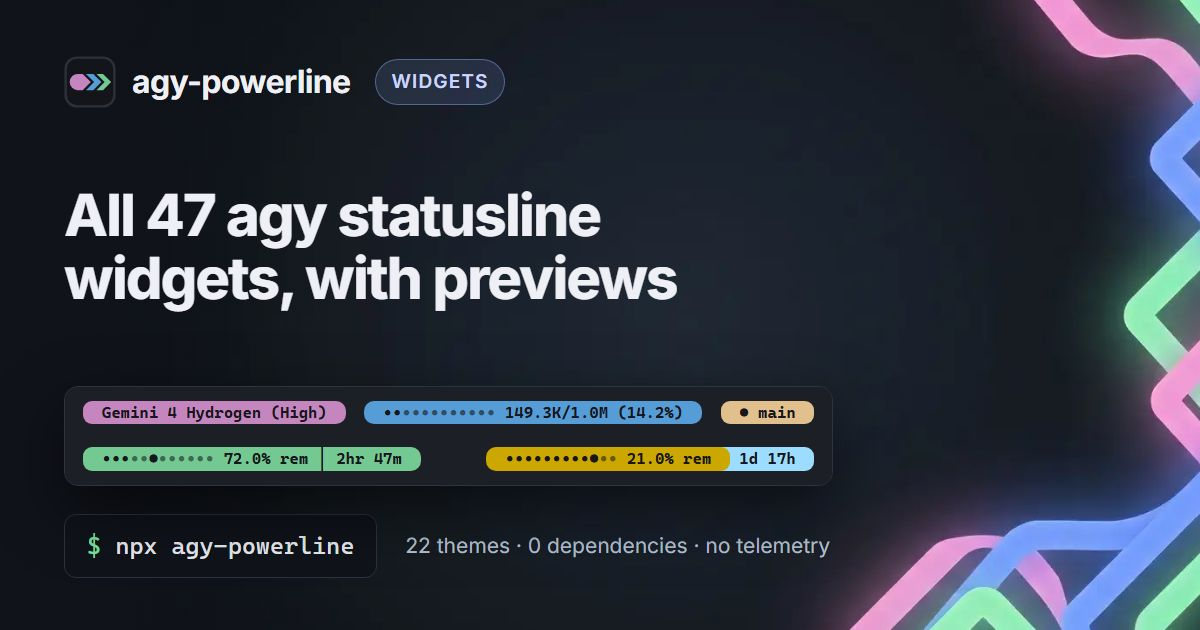
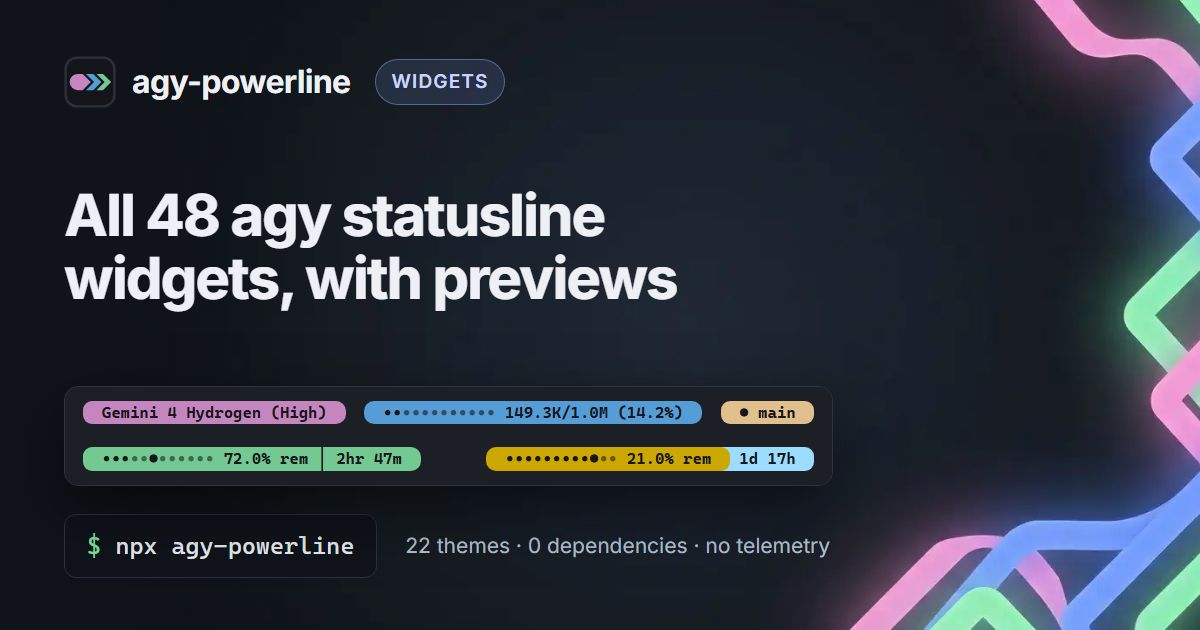
feat(usage): add tokensMonth 30-day token usage widget (#268)
## Summary

Add the opt-in `tokensMonth` (`Tokens 30 Days`) widget showing total
input + output tokens used over the last 30 days across all Antigravity
conversations, reusing the existing `.usage-cache.json` daily buckets.

Fixes #252

## Changes

- **`src/lib/usage.js`**:
- Added `tokensMonth: 30` to `USAGE_PERIODS` and returned `month:
sum(cache, recentDays(now, 30, timeZone))` in `resolveUsage()`.
- **Widget registration, localization & layouts**:
- Registered `tokensMonth` in `src/lib/catalog.js` (`summary` 5 words),
`src/lib/config.js` (`VALID_WIDGET_IDS`), `src/lib/fit.js`
(`DROP_ORDER`), `src/lib/widget-style.js` (`WIDGET_TAGS` with `🗓` /
`"30d"`), and `src/lib/i18n.js` (`tag_30d` across `en`, `fr`, `es`,
`ja`, `zh-CN`, `ko`, `de`).
- Added `tokensMonth` handling alongside `tokensToday` and `tokensWeek`
in `src/lib/layouts/pills.js` and `src/lib/layouts/lines.js` (with
`split: true`, `budget`, `warn`/`crit`/`blink`).
- Exposed `split`, `budget`, `warn`, `crit`, and `blink` options in
`src/lib/widget-options.js` for `tokensToday`, `tokensWeek`, and
`tokensMonth`.
- Updated `src/lib/session.js`, `src/cli/doctor.js`, `plugin.json` (`48
widgets`), `scripts/site/build.js` (`NO_PREVIEW`),
`scripts/site/config-schema.js`, `assets/site/og/widgets.jpg`, and
`assets/site/og/manifest.json` (`npm run site:images`).
- **Docs & tests**:
- Updated `docs/configuration.md`, `docs/install.md`, `llms.txt`,
`README.md`, `README.de.md`, `README.es.md`, `README.fr.md`,
[…]

Changed region(s): [[0.1542, 0.3016, 0.5242, 0.3921]]

diff --git a/tests/shared/usage.test.js b/tests/shared/usage.test.js
@@ -8,7 +8,8 @@ const os = require("os");
 const path = require("path");
 const { record, stripAnsi } = require("../helpers");
 const { renderStatusline, defaultConfig, sampleData } = require("../../src/lib/shared");
-const { getConfigDir, setConfigDir } = require("../../src/lib/config");
+const { LAYOUT_ORDER, getConfigDir, setConfigDir } = require("../../src/lib/config");
+const { editFields } = require("../../src/lib/widget-options");
 const { setLogDir, readLog, getLogPath } = require("../../src/lib/log");
 const {
   USAGE_CACHE_NAME,
@@ -265,6 +266,34 @@ async function run() {
       wrong.every((text) => text.includes("Today: 2.5K") && !text.includes("%")),
       wrong.join(" / ")
     );
+
+    // 30-day window includes old.db (20d) while still skipping veryold.db (40d).
+    makeConversationDb(path.join(dir, "veryold.db"), {
+      gens: [generator({ input: 500000, output: 0, id: "vo" }, NOW - 40 * DAY)],
+      mtime: NOW - 40 * DAY,
+    });
+    const opensBeforeMonth = stats.opens;
+    const monthOut = inHome(home, () => render(config({}, [{ id: "tokensMonth" }])));
+    const monthSplit = inHome(home, () =>
+      render(config({}, [{ id: "tokensMonth", split: true, budget: 2000000 }]))
+    );
+    const monthLayouts = LAYOUT_ORDER.every((layout) =>
+      inHome(home, () => render(config({ layout }, [{ id: "tokensMonth" }]))).includes("30d: 1.1M")
+    );
+    const monthFields = new Set(editFields({ id: "tokensMonth" }).map((f) => f.key));
+    record(
+      "tokensMonth sums the last 30 days, supports split/budget across layouts, and skips >31d databases",
+      stats.opens - opensBeforeMonth === 1 &&
+        monthOut.includes("🗓 30d: 1.1M") &&
+        monthSplit.includes("30d: 1.1M↑ 1.3K↓ (54%)") &&
+        monthLayouts &&
+        ["split", "budget", "warn", "crit", "blink"].every((key) => monthFields.has(key)),
+      `${stats.opens - opensBeforeMonth} opens | ${monthOut} | ${monthSplit}`
+    );
+    // Clean up veryold.db and old.db cache entry before subsequent exact checks.
+    fs.rmSync(path.join(dir, "veryold.db"), { force: true });
+    clearUsageCache();
+    fs.rmSync(path.join(install, USAGE_CACHE_NAME), { force: true });
 
     // Locked, corrupt or foreign databases are skipped and logged, without a path.
     setLogDir(install, true);

diff --git a/src/lib/widget-options.js b/src/lib/widget-options.js
@@ -31,6 +31,7 @@ const PACED_WIDGETS = new Set([
   "argonWeekly",
 ]);
 const METER_WIDGETS = new Set([...PACED_WIDGETS, "context"]);
+const USAGE_TOTAL_WIDGETS = new Set(["tokensToday", "tokensWeek", "tokensMonth"]);
 const MAX_WIDTH_WIDGETS = new Set([
   "cwd",
   "project",
@@ -53,9 +54,10 @@ const onOff = (value) => (value ? "on" : "off");
 function editFields(widget, config = {}, options = {}) {
   const quota = QUOTA_WIDGETS.has(widget.id);
   const context = CONTEXT_WIDGETS.has(widget.id);
+  const usageTotal = USAGE_TOTAL_WIDGETS.has(widget.id);
   const thresholds = quota
     ? resolveQuotaThresholds({}, config)
-    : context
+    : context || usageTotal
       ? resolveContextThresholds({}, config)
       : null;
 
@@ -132,6 +134,27 @@ function editFields(widget, config = {}, options = {}) {
       show: (value) => onOff(value),
       help: "Input and output tokens apart (123.1K↑ 355.0K↓) instead of one total.",
     });
+  }
+  if (usageTotal) {
+    fields.push(
+      {
+        key: "split",
+        label: "Split",
+        values: [undefined, true],
+        show: (value) => onOff(value),
+        help: "Input and output tokens apart (1.0M↑ 245.3K↓) instead of one total.",
+      },
+      {
+        key: "budget",
+        label: "Budget",
+        values: [undefined, 500000, 1000000, 2000000, 5000000, 10000000],
+        show: (value) =>
+          typeof value === "number" && Number.isFinite(value) && value > 0
+            ? formatTokens(value)
+            : "off",
+        help: "Token budget: adds the % used and turns to caution and danger colors as usage approaches it.",
+      }
+    );
   }
   if (widget.id === "cost") {
     fields.push(

diff --git a/src/lib/usage.js b/src/lib/usage.js
@@ -3,10 +3,10 @@
 
 "use strict";
 
-// Tokens used today and over the last 7 days, for the tokensToday and
-// tokensWeek widgets. agy keeps each conversation in a SQLite database of its
-// own; only the usage numbers, response IDs (to drop duplicates) and
-// timestamps are read from it, never a message, a model prompt or a name.
+// Tokens used today, over the last 7 days, and over the last 30 days, for the
+// tokensToday, tokensWeek, and tokensMonth widgets. agy keeps each conversation
+// in a SQLite database of its own; only the usage numbers, response IDs (to drop
+// duplicates) and timestamps are read from it, never a message, a model prompt or a name.
 // The field numbers and the way duplicates are dropped follow ccusage's
 // Antigravity adapter (MIT, rust/adapters/antigravity/src/parser.rs).
 
@@ -23,7 +23,7 @@ const USAGE_CACHE_NAME = ".usage-cache.json";
 const READ_BUDGET_MS = 100;
 const DAY_MS = 86400000;
 // How many days back each widget looks, today included.
-const USAGE_PERIODS = { tokensToday: 1, tokensWeek: 7 };
+const USAGE_PERIODS = { tokensToday: 1, tokensWeek: 7, tokensMonth: 30 };
 // Usage metadata is a few hundred bytes; anything this big isn't.
 const MAX_BLOB_BYTES = 4 * 1024 * 1024;
 const MAX_DEPTH = 8;
@@ -502,6 +502,7 @@ function resolveUsage(config, { read = false } = {}) {
     return {
       today: sum(cache, recentDays(now, 1, timeZone)),
       week: sum(cache, recentDays(now, 7, timeZone)),
+      month: sum(cache, recentDays(now, 30, timeZone)),
     };
   } catch {
     return null;

diff --git a/src/lib/i18n.js b/src/lib/i18n.js
@@ -37,6 +37,7 @@ const MESSAGES = {
     tag_tokens: "Tokens",
     tag_clock: "Clock",
     tag_today: "Today",
+    tag_30d: "30d",
     tag_cost: "Cost",
     tag_queue: "Queue",
 
@@ -90,6 +91,7 @@ const MESSAGES = {
     tag_tokens: "Tokens",
     tag_clock: "Heure",
     tag_today: "Aujourd'hui",
+    tag_30d: "30j",
     tag_cost: "Coût",
     tag_queue: "File",
 
@@ -143,6 +145,7 @@ const MESSAGES = {
     tag_tokens: "Tokens",
     tag_clock: "Hora",
     tag_today: "Hoy",
+    tag_30d: "30d",
     tag_cost: "Coste",
     tag_queue: "Cola",
 
@@ -196,6 +199,7 @@ const MESSAGES = {
     tag_tokens: "トークン",
     tag_clock: "時刻",
     tag_today: "今日",
+    tag_30d: "30日",
     tag_cost: "コスト",
     tag_queue: "キュー",
 
@@ -250,6 +254,7 @@ const MESSAGES = {
     tag_tokens: "Token",
     tag_clock: "时间",
     tag_today: "今日",
+    tag_30d: "30天",
     tag_cost: "费用",
     tag_queue: "队列",
 
@@ -303,6 +308,7 @@ const MESSAGES = {
     tag_tokens: "토큰",
     tag_clock: "시각",
     tag_today: "오늘",
+    tag_30d: "30일",
     tag_cost: "비용",
     tag_queue: "대기",
 
@@ -356,6 +362,7 @@ const MESSAGES = {
     tag_tokens: "Tokens",
     tag_clock: "Uhrzeit",
     tag_today: "Heute",
+    tag_30d: "30T",
     tag_cost: "Kosten",
     tag_queue: "Warteschlange",
 

diff --git a/src/lib/layouts/lines.js b/src/lib/layouts/lines.js
@@ -688,13 +688,10 @@ function buildLinesSegment(id, session, palette, emojis, ascii = false, widget =
     }
 
     case "tokensToday":
-    case "tokensWeek": {
-      const usage = formatUsage(
-        session.usage?.[id === "tokensToday" ? "today" : "week"],
-        widget,
-        ascii,
-        session.lang
-      );
+    case "tokensWeek":
+    case "tokensMonth": {
+      const period = { tokensToday: "today", tokensWeek: "week", tokensMonth: "month" }[id];
+      const usage = formatUsage(session.usage?.[period], widget, ascii, session.lang);
       if (!usage) {
         return null;
       }

diff --git a/src/lib/layouts/pills.js b/src/lib/layouts/pills.js
@@ -604,13 +604,10 @@ function buildSegment(id, session, colors, emojis, ascii = false, widget = {}, c
     }
 
     case "tokensToday":
-    case "tokensWeek": {
-      const usage = formatUsage(
-        session.usage?.[id === "tokensToday" ? "today" : "week"],
-        widget,
-        ascii,
-        session.lang
-      );
+    case "tokensWeek":
+    case "tokensMonth": {
+      const period = { tokensToday: "today", tokensWeek: "week", tokensMonth: "month" }[id];
+      const usage = formatUsage(session.usage?.[period], widget, ascii, session.lang);
       if (!usage) {
         return null;
       }

diff --git a/scripts/site/build.js b/scripts/site/build.js
@@ -658,7 +658,15 @@ function guidesIndexPage() {
 
 // Widgets that read the machine the site is built on (or its agy data) get no
 // preview: it would show the build machine, not an example.
-const NO_PREVIEW = new Set(["os", "host", "ram", "clock", "tokensToday", "tokensWeek"]);
+const NO_PREVIEW = new Set([
+  "os",
+  "host",
+  "ram",
+  "clock",
+  "tokensToday",
+  "tokensWeek",
+  "tokensMonth",
+]);
 const PREVIEW_OPTIONS = { customText: { text: "Production" }, exec: { cmd: "echo deploy" } };
 
 function widgetPreview(id, styles) {

diff --git a/src/lib/session.js b/src/lib/session.js
@@ -457,7 +457,7 @@ function extractSession(data, config, options = {}) {
     sandboxNet: data.sandbox?.allow_network === true,
     git,
     gitDetails,
-    // Only read when tokensToday or tokensWeek is on the bar.
+    // Only read when tokensToday, tokensWeek or tokensMonth is on the bar.
     usage: resolveUsage(config, { read: options.readUsage === true }),
     terminalWidth: terminalWidth(
       data.terminal_width ?? process.stdout.columns ?? 0,

diff --git a/src/cli/doctor.js b/src/cli/doctor.js
@@ -194,7 +194,7 @@ async function doctorCommand(options = {}) {
     console.log(
       `${YELLOW} usage widgets need Node 22.13 or newer${RESET} (this is ${process.version}).`
     );
-    console.log("  tokensToday and tokensWeek stay hidden until Node is updated.");
+    console.log("  tokensToday, tokensWeek and tokensMonth stay hidden until Node is updated.");
   }
 
   // Not a failure either: the bar shows English.

diff --git a/src/lib/catalog.js b/src/lib/catalog.js
@@ -325,6 +325,14 @@ const WIDGET_CATALOG = [
     summary: "tokens used over 7 days",
   },
   {
+    id: "tokensMonth",
+    label: "Tokens 30 Days",
+    unique: true,
+    description:
+      "tokens used in the last 30 days in all agy conversations, from agy's local data (Node 22.13+)",
+    summary: "tokens used over 30 days",
+  },
+  {
     id: "exec",
     label: "Shell Command",
     unique: false,

diff --git a/scripts/site/config-schema.js b/scripts/site/config-schema.js
@@ -211,7 +211,7 @@ function buildConfigSchema() {
           budget: {
             type: "number",
             minimum: 0.01,
-            description: "tokensToday, tokensWeek, or cost.",
+            description: "tokensToday, tokensWeek, tokensMonth, or cost.",
           },
           text: { type: "string", description: "customText: the text to show." },
         },

diff --git a/src/lib/widget-style.js b/src/lib/widget-style.js
@@ -141,6 +141,7 @@ const WIDGET_TAGS = {
   clock: { icon: "🕒", name: "Clock", key: "tag_clock", iconOnly: true },
   tokensToday: { icon: "📈", name: "Today", key: "tag_today" },
   tokensWeek: { icon: "📊", name: "7d", key: "tag_7d" },
+  tokensMonth: { icon: "🗓", name: "30d", key: "tag_30d" },
   customText: { icon: "🏷", name: "" },
 };
 
